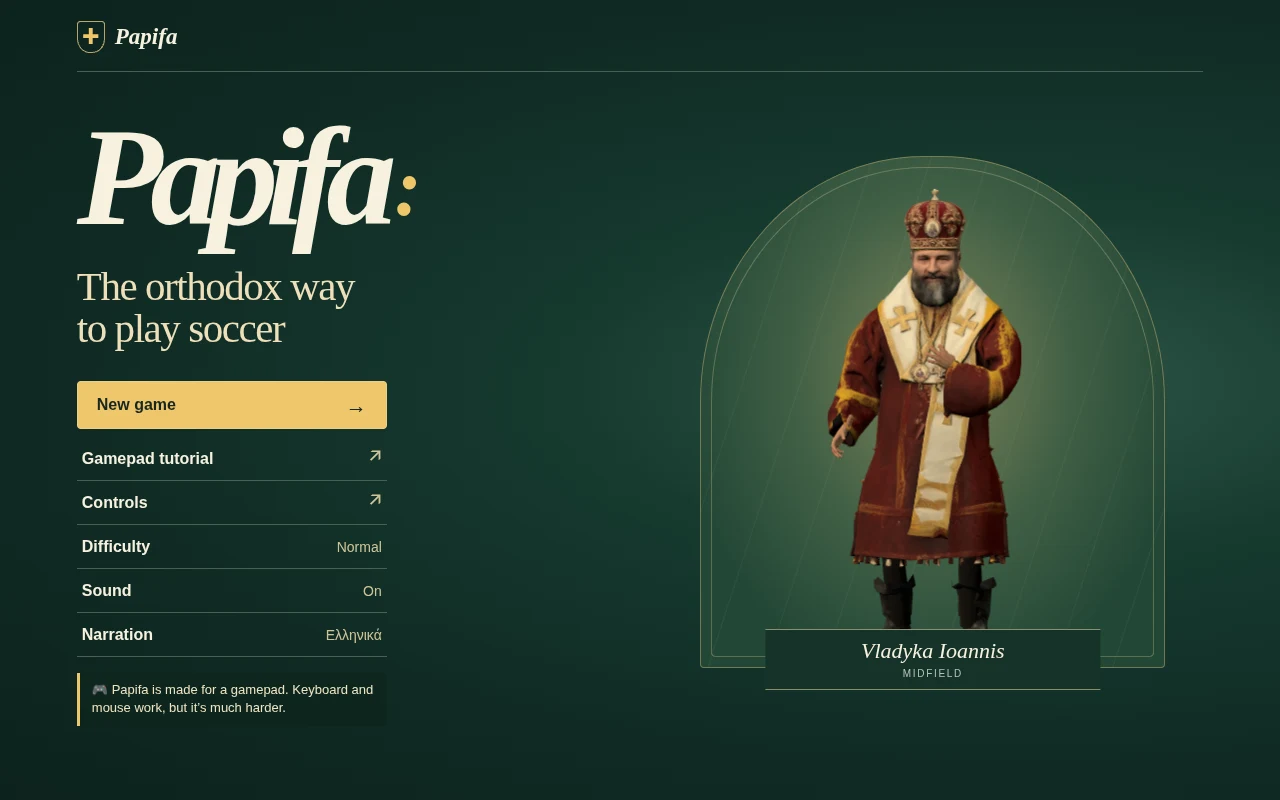
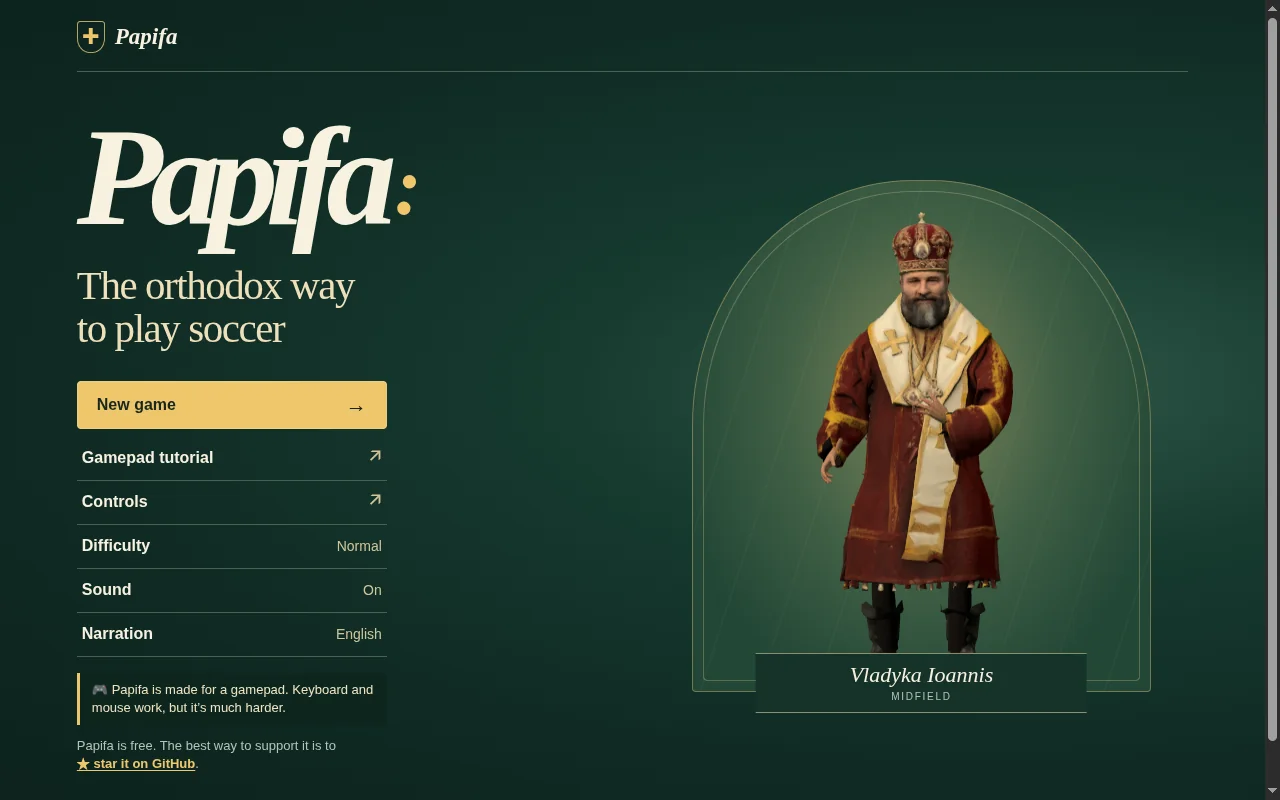
Release 4c1f252

diff --git a/README.md b/README.md
@@ -1,22 +1,79 @@
 # Papifa
 
-**Papifa: The orthodox way to play soccer** — a fast, arcade 3D football game starring Orthodox priests, playable in the browser and as a standalone Electron desktop app (Windows, Linux, and macOS).
+**Play now:** <https://metaskepsis.com/papifa/>
 
-Gameplay is intentionally arcade-first: responsive dribbling, easy passing, assisted shooting, three monastery venues (*Courtyard*, *Meteora cliff-top*, *Winter monastery*), 3v3 and 5v5 matches, local 2-player, online WebRTC P2P multiplayer, and special prayer blessings (including riding St George's white warhorse across the pitch). The polish goes into how the priests move: running, turning, tackling, sliding, kicking, and robes and beards in motion.
+**Papifa: The orthodox way to play soccer** — a free, fast arcade 3D football game starring Orthodox priests, playable straight in your browser and as a standalone desktop app for Windows, Linux, and macOS.
 
-## Screenshots
+Papifa is completely free. **The best way to support Papifa is to ⭐ star this repo.**
 
-| Title & 3D Portrait | 5v5 Monastery Match |
+| Title & 3D Portrait | 5v5 Monastery Courtyard |
 | :---: | :---: |
-| ![Papifa title menu](docs/screenshots/menu.webp) | ![5v5 match in progress](docs/screenshots/match.webp) |
+| ![Papifa title menu with Vladyka Ioannis](docs/screenshots/menu.webp) | ![5v5 match in the Monastery Courtyard](docs/screenshots/match.webp) |
 
-| St George Prayer Blessing | Interactive Gamepad Tutorial |
+---
+
+## Features
+
+### The Priests & Movement Realism
+Arcade rules keep every match fast, responsive, and easy to pick up — the effort goes into how the priests move: running, turning, tackling, sliding, kicking, diving saves, celebrations, and flowing cassocks and beards in motion. Two kits face off (**Gold Cross** vs **Blue Dome**) in **3v3** or **5v5** matches officiated by **The Patriarch**:
+
+| Priest | Role | Style |
+| :--- | :--- | :--- |
+| **Father Luka** | Goalkeeper (`GK`) | Towering purple kamilavka, full-stretch diving parries, strong catches, and aimed punts |
+| **Papa Giorgis** | Defender (`DF`) | Broad black kalimavkion, long beard, fearless standing and slide tackles |
+| **Brother Seraphim** | Left Midfield (`ML`) | Tall monastic koukoulion, tireless box-to-box running and through balls |
+| **Vladyka Ioannis** | Right Midfield (`MR`) | Ornate golden mitre, crisp passing and curling shots from midfield |
+| **Diakon Nikolai** | Striker (`FW`) | Fast, nimble forward in a skufia who leads the press and counter-attacks |
+
+### Three Monastery Venues
+Play across three distinct 3D stadiums in 3v3 or 5v5 scale:
+- **Monastery Courtyard** — sunlit stone cloisters, cypress trees, and red-tiled arches.
+- **Meteora Cliff-top** — perched high on sheer rock pillars overlooking the valley.
+- **Winter Monastery** — crisp snowfall, frosted pines, and cold-weather floodlights.
+
+| Meteora Cliff-top | Winter Monastery |
 | :---: | :---: |
-| ![Diakon Nikolai riding St George's white warhorse](docs/screenshots/st-george.webp) | ![Interactive gamepad tutorial](docs/screenshots/tutorial.webp) |
+| ![5v5 match at the Meteora cliff-top venue](docs/screenshots/venue-meteora.webp) | ![5v5 match at the Winter Monastery venue](docs/screenshots/venue-winter.webp) |
+
+### Three Prayers (Divine Blessings)
+Each team has **2 prayer slots per match**. Hold the pray control for 2 seconds to fill the cross, then invoke a 15-second blessing:
+- **Jesus (uses both slots):** descends with a golden aura — your next shot becomes an unstoppable golden beam straight for the net.
+- **Mother Mary (1 slot):** shields your goal with a luminous celestial-blue barrier that rebounds incoming shots. If a Jesus shot hits Mother Mary's shield, both cancel in a dramatic **Clash** (*"Everyone is God's favorite child"*).
+- **St George (1 slot):** rides onto the pitch on his white warhorse at **+30% speed**, charging past defenders with robes flying.
+
+| Jesus Prayer & Golden Beam | Mother Mary Goal Shield | St George Warhorse (+30% Speed) |
+| :---: | :---: | :---: |
+| ![Jesus prayer aura and golden beam shot](docs/screenshots/prayer-jesus.webp) | ![Mother Mary celestial-blue goal shield](docs/screenshots/prayer-mary.webp) | ![Diakon Nikolai riding St George's white warhorse](docs/screenshots/st-george.webp) |
+
+### 3D Corner Cameos, Live Commentary & Slow-Motion Replays
+- **3D Picture-in-Picture Cameos:** big goals, thunderous goalkeeper catches, and every team's **4th goal** pop animated, lip-synced 3D parody characters into the corner of the screen with synthetic voice lines.
+- **Live Narration:** toggleable **English** and **Greek** match commentary (or Off) with automatic sound-effect ducking.
+- **Celebrations & Replays:** every goal triggers full-squad celebrations followed by a broadcast-style **`● REPLAY`** slow-motion playback.
+
+| 3D Corner Cameo | Slow-Motion Goal Replay |
+| :---: | :---: |
+| ![3D corner TV cameo reacting to a goal](docs/screenshots/cameo.webp) | ![Broadcast slow-motion goal replay](docs/screenshots/replay.webp) |
+
+### Play Modes & Devices
+- **Solo vs AI:** five difficulty levels from *Very easy* to *Very hard*.
+- **Interactive Gamepad Tutorial:** a 14-step watch-and-try tutorial with a live on-screen controller diagram teaching every move from dribbling and chips to autopilot aim and prayers.
+- **Local 2-Player:** share one screen with two controllers, or one controller + keyboard & mouse.
+- **Online 2-Player (Invite Codes, No Server Required):** swap short invite & reply codes (`P1I-…` / `P1R-…`) to connect directly peer-to-peer over WebRTC — no accounts or sign-ups needed.
+- **Mobile Touch Controls:** playable on phones and tablets with a virtual movement stick, swipe moves, and touch prayer wheel.
+
+| Interactive Gamepad Tutorial | Local 2-Player on One Screen |
+| :---: | :---: |
+| ![Interactive gamepad tutorial with controller diagram](docs/screenshots/tutorial.webp) | ![Local 2-player match with dual rings and HUD](docs/screenshots/local-2p.webp) |
+
+| Online 2P Invite Codes | Phone Touch Layout |
+| :---: | :---: |
+| ![Online invite-code hosting screen](docs/screenshots/online-invite.webp) | ![Mobile landscape touch controls](docs/screenshots/mobile-touch.webp) |
 
 ---
 
 ## Play in the browser
+
+Play immediately online at **<https://metaskepsis.com/papifa/>**, or run your own local copy:
 
 ### Option 1: Build a self-contained static web release (recommended)
 
